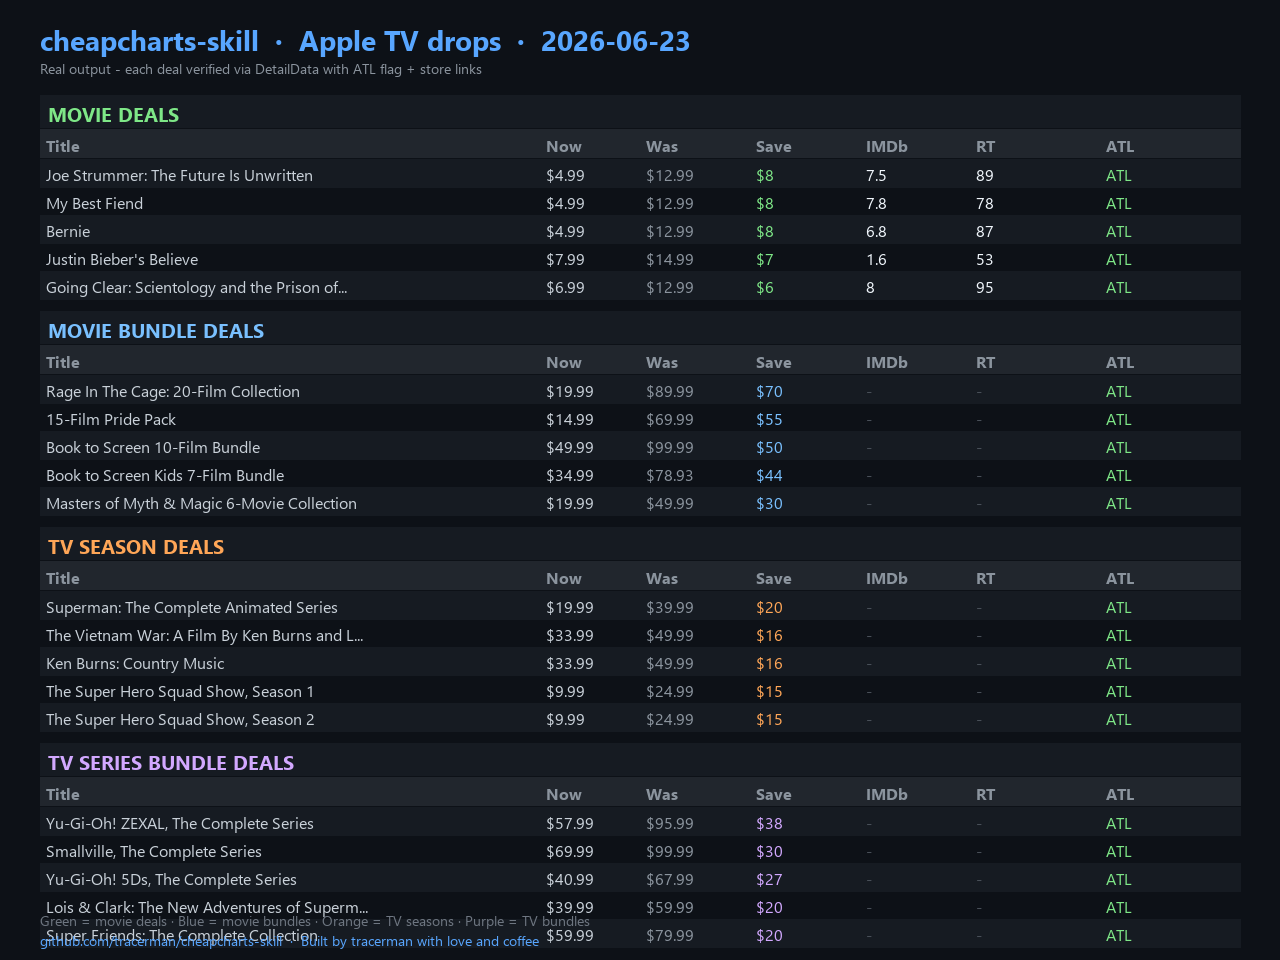
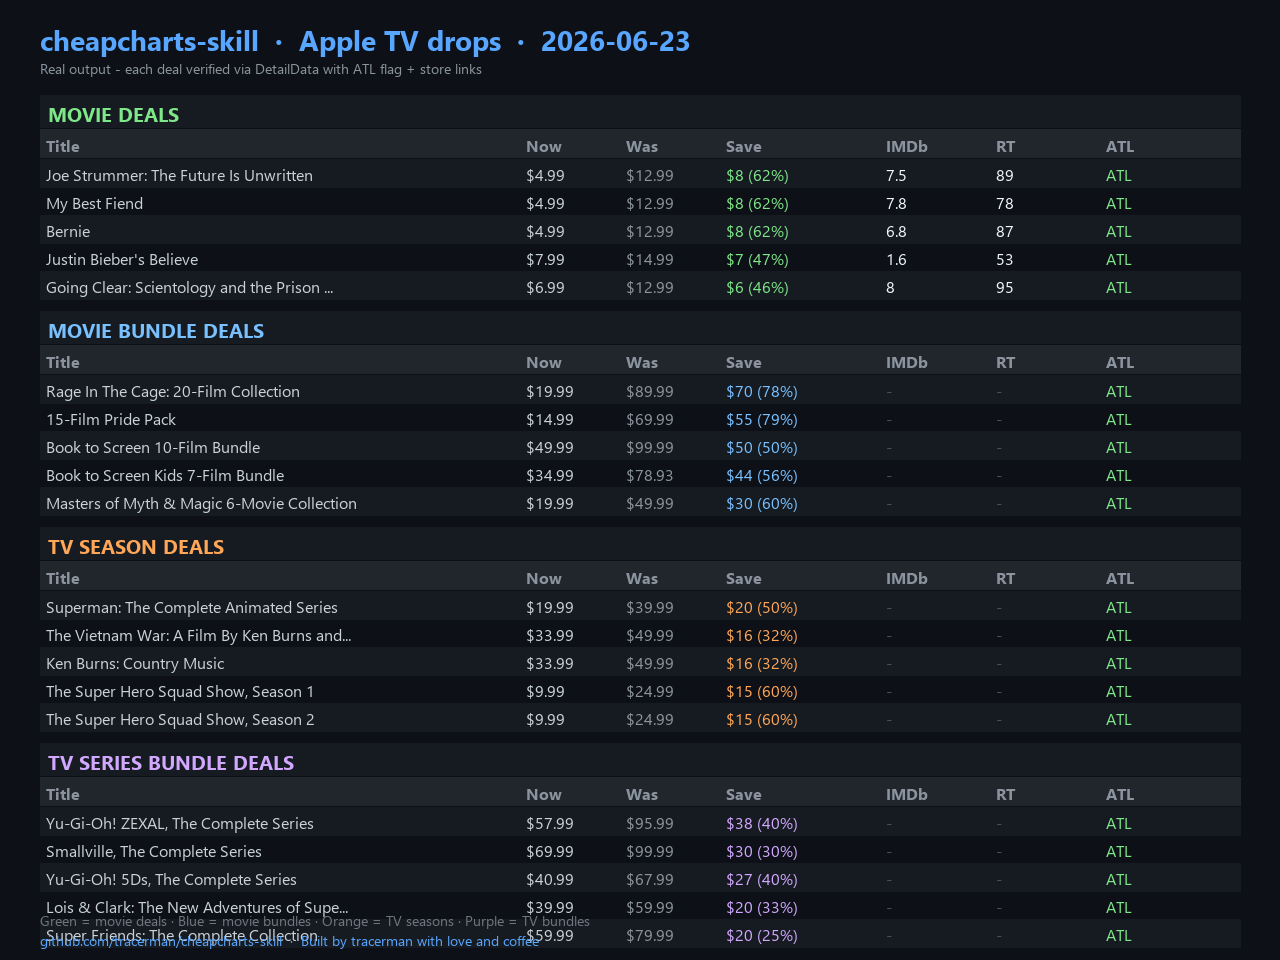
Show both $ and % in savings column (script + screenshot)

diff --git a/skills/cheapcharts/scripts/atl_check.py b/skills/cheapcharts/scripts/atl_check.py
@@ -141,7 +141,8 @@ def format_atl_line(a):
     if price is not None and was is not None and was != price:
         try:
             save = float(was) - float(price)
-            save_str = f" (was ${was}, save ${save:.2f})"
+            pct = (save / float(was) * 100) if float(was) > 0 else 0
+            save_str = f" (was ${was}, save ${save:.2f} / {pct:.0f}%)"
         except (TypeError, ValueError):
             save_str = f" (was ${was})"
     else: